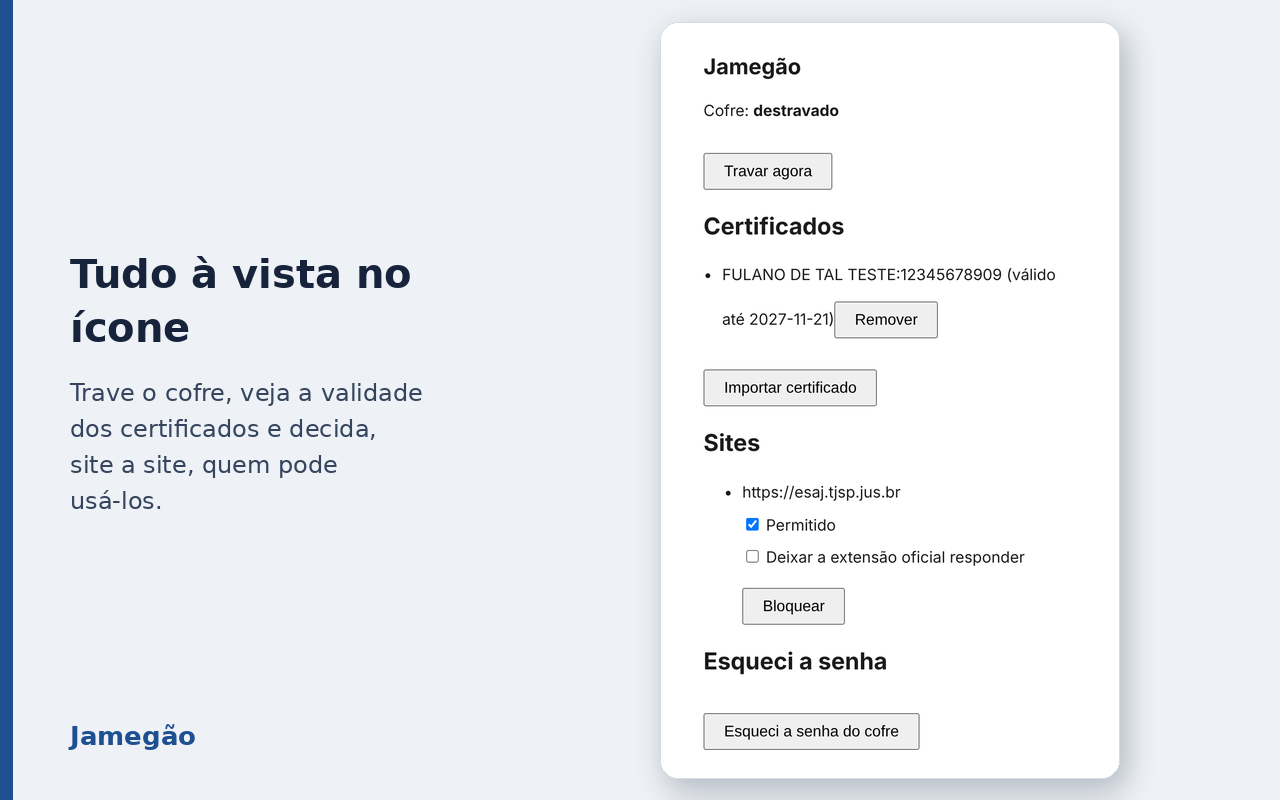
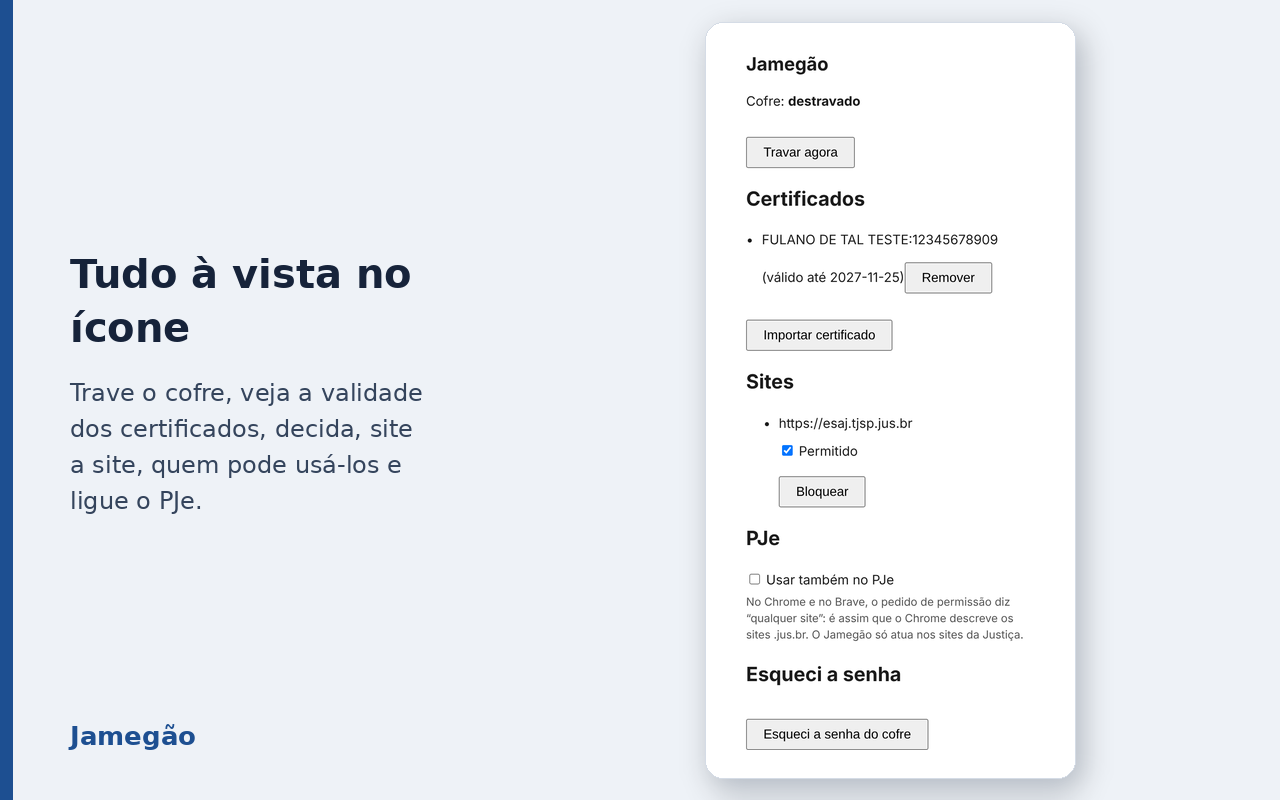
Histórico do projeto, capturas da 0.3.0 e README revisto
- docs/HISTORICO.md: do protótipo à 0.3.0, item a item, com sintoma, causa
  e correção, no modelo do histórico do Tessera; o teste de textos confere
  que não cita marcas.
- Capturas: popup com o PJe (e variante sem a nota do Chrome para a
  Mozilla), certificado fictício com cadeia; imagem promocional com o PJe e
  script para refazê-la.
- README: atualização pelo .xpi, passo da permissão no Firefox, "A fazer"
  e link para o histórico.
- Pendências: 0.3.0 enviada às duas lojas.

Claude-Session: https://claude.ai/code/session_015QXnrw8JCbopUnnSNbAqps

Changed region(s): [[0.5312, 0.0312, 0.9062, 1.0], [0.0625, 0.5312, 0.3125, 0.6562]]

diff --git a/test/unit/textos.test.js b/test/unit/textos.test.js
@@ -37,7 +37,7 @@ function semComentarios(js) {
 }
 
 test('nenhum texto voltado ao usuário cita as marcas', () => {
-  const arquivos = ['ext/manifest.json', 'docs/lojas/descricao.md', 'docs/lojas/ficha-mozilla.md', 'docs/lojas/notas-0.3.0.md', 'docs/lojas/roteiro-de-envio.md', 'PRIVACIDADE.md', 'README.md'];
+  const arquivos = ['ext/manifest.json', 'docs/lojas/descricao.md', 'docs/lojas/ficha-mozilla.md', 'docs/lojas/notas-0.3.0.md', 'docs/lojas/roteiro-de-envio.md', 'PRIVACIDADE.md', 'README.md', 'docs/HISTORICO.md'];
   const textos = new Map(arquivos.map((f) => [f, ler(f)]));
   for (const p of listar(ext)) {
     const r = rel(p);

diff --git a/scripts/compor-capturas.py b/scripts/compor-capturas.py
@@ -14,7 +14,9 @@ ITENS = [
     ('2-site.png', 'cru-site.png', 'Só os sites que você autoriza',
      'Na primeira vez, o e-SAJ precisa da sua permissão para ver os certificados importados.'),
     ('3-popup.png', 'cru-popup.png', 'Tudo à vista no ícone',
-     'Trave o cofre, veja a validade dos certificados e decida, site a site, quem pode usá-los.'),
+     'Trave o cofre, veja a validade dos certificados, decida, site a site, quem pode usá-los e ligue o PJe.'),
+    ('3-popup-firefox.png', 'cru-popup-firefox.png', 'Tudo à vista no ícone',
+     'Trave o cofre, veja a validade dos certificados, decida, site a site, quem pode usá-los e ligue o PJe.'),
     ('4-importar.png', 'cru-importar.png', 'Importe o PFX uma vez',
      'A chave fica cifrada no navegador, protegida pela senha do cofre. Nada é enviado a servidor algum.'),
 ]

diff --git a/scripts/promocional.py b/scripts/promocional.py
@@ -1,0 +1,16 @@
+# Imagem promocional pequena da Chrome Web Store (440x280).
+# Uso: python3 scripts/promocional.py <saída.png>
+import sys, textwrap
+from PIL import Image, ImageDraw, ImageFont
+
+F = '/usr/share/fonts/truetype/dejavu/DejaVuSans'
+im = Image.new('RGB', (440, 280), (29, 79, 145))
+icone = Image.open('ext/icons/icon-128.png').convert('RGBA').resize((96, 96), Image.LANCZOS)
+im.paste(icone, (36, 92), icone)
+d = ImageDraw.Draw(im)
+d.text((152, 98), 'Jamegão', font=ImageFont.truetype(F + '-Bold.ttf', 38), fill='white')
+texto_f = ImageFont.truetype(F + '.ttf', 15)
+y = 150
+for linha in textwrap.wrap('Assinatura no e-SAJ e no PJe com certificado A1, sem instalar programa.', 30):
+    d.text((154, y), linha, font=texto_f, fill=(214, 226, 243)); y += 22
+im.save(sys.argv[1])

diff --git a/docs/HISTORICO.md b/docs/HISTORICO.md
@@ -1,0 +1,275 @@
+# Histórico
+
+Este documento conta como o Jamegão chegou à forma atual, do protótipo, em novembro de 2026, à versão 0.3.0. Os testes reais foram feitos por Pedro, com certificado A1 de verdade:
+
+- no Firefox e no Brave, no Bluefin e no CachyOS;
+- no Firefox do OpenBSD;
+- no Firefox do Android, pelo Waydroid.
+
+O texto segue as versões em ordem. Os itens têm numeração corrida de ponta a ponta, para que se possa citar um deles pelo número. Cada problema traz o sintoma, a causa e a correção. Cada decisão traz o motivo.
+
+As mudanças de cada versão, em detalhe, estão no histórico do git e em [Pendências](PENDENCIAS.md). As decisões de desenho estão em [`docs/superpowers/specs`](superpowers/specs).
+
+## Antes da 0.1: o protótipo (até 21/11)
+
+1. **A pergunta.** O ponto de partida foi saber se as extensões oficiais de assinatura do e-SAJ podiam ser trocadas por uma extensão pura, sem programa nativo, para Chromium e Firefox. Essas extensões dependem de um componente nativo instalado à parte, que não existe para todos os sistemas: não há versão para Mac com processador Apple, por exemplo. O alcance ficou restrito:
+   - ao e-SAJ, porque os demais sistemas aceitavam o certificado direto no navegador (o PJe entrou depois, na 0.3.0);
+   - ao certificado A1, porque o A3 em token ou cartão fica com o projeto irmão, o [Tessera](https://github.com/pedrohqb/tessera).
+2. **A leitura do e-SAJ.** Pedro abriu no Chrome a tela de peticionamento do e-SAJ, e o código que o e-SAJ entrega à página foi lido ali. Ele mostrou cinco coisas:
+   - **Detecção:** a página considera a extensão instalada quando existe um elemento cujo `id` é o identificador da extensão oficial.
+   - **Pedidos:** saem por evento no `document` (Chromium) ou por `postMessage` (Firefox).
+   - **Respostas:** voltam no formato `{requestId, success, response | exception}`.
+   - **Duas famílias de SDK:** o login usa uma; no peticionamento pelo Firefox, conforme a configuração do tribunal, pode entrar a outra. A extensão precisa atender as duas.
+   - **Comandos usados:** `listCertificates`, `readCertificate`, `preauthorizeSignatures`, `signHash` e `signData`, mais os de inicialização.
+3. **O limite das plataformas.** Uma extensão não enxerga os certificados guardados no navegador nem no sistema; a API que faria isso só existe no ChromeOS. Pedro queria a extensão sem configuração, de preferência usando os certificados que o navegador já reconhece, mas isso não é possível. Por isso o PFX é importado para dentro da extensão.
+4. **Segurança da chave importada.** Pedro levantou a dúvida de a importação ser menos segura. A resposta foram três medidas:
+   - o cofre com senha;
+   - a confirmação antes de cada assinatura;
+   - a extensão sem nenhuma conexão de rede própria.
+5. **O protótipo descartável.** O protótipo passou em 94 verificações automáticas no Chrome. Pedro o usou com sucesso no e-SAJ do TJSP e do TJAL, no Chromium e no Firefox. O SDK da página exige uma versão mínima da extensão e do componente nativo, e o protótipo passou a declarar uma versão alta o bastante.
+
+## O desenho e o nome (21/11)
+
+6. **Três caminhos foram considerados:**
+   - **JavaScript puro, sem etapa de build (escolhido):** o que está no repositório é o que vai para a loja, arquivo por arquivo, o que torna a auditoria trivial e é a principal defesa contra uma atualização maliciosa.
+   - **TypeScript com empacotador (descartado):** o pacote deixaria de ser o fonte, a revisão da Mozilla passaria a exigir o envio do código-fonte, e as bibliotecas modernas não leem PFX legado.
+   - **Núcleo em Rust/WebAssembly (descartado):** poria um binário no pacote, por um ganho acima do teto de segurança de um A1.
+7. **Decisões de Pedro no desenho:**
+   - cofre com senha, que trava depois de 30 minutos sem uso;
+   - confirmação a cada lote e a cada login;
+   - só os e-SAJ conhecidos;
+   - nenhuma comunicação de rede própria.
+
+   Outras restrições:
+   - a única biblioteca de terceiros é a node-forge, usada só na importação, porque o WebCrypto não decifra os PKCS#12 legados (3DES e RC2-40);
+   - a chave precisa existir em JavaScript durante o `signHash`, porque o WebCrypto não assina um resumo já calculado.
+8. **O nome.**
+   - O primeiro nome foi Manu Propria; "Assinador PFX" era provisório.
+   - Pedro quis algo melhor e escolheu **Jamegão**, "informal, mas bem específico": é como se diz, na fala popular, a assinatura de alguém.
+   - A busca exata no INPI não deu resultado, e não havia homônimo nas lojas.
+   - O repositório `pedrohqb/jamegao` é público desde o início, sob GPL-3.0; a ideia anterior de mantê-lo privado até a resposta das lojas foi abandonada.
+   - O primeiro envio seria não listado, para ver como as lojas tratariam o uso dos identificadores das extensões oficiais. Nenhuma loja questionou.
+
+## 0.1.0 (21 e 22/11)
+
+9. **A implementação.** O plano da v0.1 foi executado em tarefas paralelas, com revisão a cada etapa. As tarefas foram:
+   - a ponte entre a página e a extensão;
+   - a assinatura RSA;
+   - o cofre;
+   - os sites e créditos de assinatura;
+   - a leitura do PFX e dos certificados;
+   - a decisão dos comandos;
+   - a importação;
+   - a confirmação;
+   - o travamento e o bloqueio de rede;
+   - o popup e a convivência com as oficiais;
+   - o teste no Firefox;
+   - o pacote e os textos.
+10. **O que as revisões por etapa pegaram:**
+    - destravar e criar o cofre ao mesmo tempo podiam se atropelar, e as duas operações passaram a correr em fila;
+    - o órgão emissor e a UF do RG, que o certificado ICP-Brasil guarda juntos num campo, eram separados errado;
+    - créditos e sites podiam se atropelar em gravações simultâneas;
+    - o crédito de assinatura passou a ser consumido de forma atômica;
+    - os erros internos passaram a ir opacos à página;
+    - a importação passou a limpar as senhas da memória mesmo quando falha.
+11. **As nove pendências da revisão final** (21/11, noite):
+    - **"Travar agora" mantinha os créditos de assinatura.** Agora os apaga, e o cofre travado sempre mostra de novo o que será assinado.
+    - **Manifesto:** ficou com os e-SAJ ainda em uso: TJSP, TJAL, TJMS, TJAC, TJCE (plantão) e TJBA. TJSC e TJAM tinham migrado de sistema e ficaram fora.
+    - **Confirmação vencida:** não pode mais ser aprovada nem exibida.
+    - **Dados do cofre em `storage.local`:** o sal, a conferência do cofre, o contador de tentativas e as decisões por site estavam num lugar que os scripts de conteúdo alcançam, e foram para o IndexedDB da extensão.
+    - **Bloqueio:** a janela ganhou o botão "Bloquear este site". Depois de uma recusa, o site fica 15 segundos sem poder abrir outra janela.
+    - **Aceite que falha no meio:** avisa a aba na hora, em vez de deixá-la esperando 120 segundos.
+    - **Teste de convivência intermitente:** havia uma corrida real. Quando o site passava a preferir a oficial no meio de um pedido, o Jamegão respondia com recusa; agora fica calado.
+    - As outras duas foram de texto e de teste.
+12. **A janela reabria sozinha no Brave.**
+    - *Sintoma:* sem resposta em 120 segundos, a janela de confirmação do login fechava e abria de novo.
+    - *Causa:* quando a listagem de certificados falha, a tela de login do e-SAJ a repete na hora, até três vezes.
+    - *Correção:* o prazo vencido passou a contar como recusa e pausa o site por 15 segundos, como a recusa.
+13. **A revisão independente** (22/11, de madrugada) aprovou o trabalho com ressalvas, sem achado crítico. Os sete achados menores foram corrigidos:
+    - um aceite que falha não deixa crédito sobrando;
+    - toda janela antes de assinar mostra a quantidade de documentos;
+    - a falha ao gravar um bloqueio é avisada;
+    - as conexões do IndexedDB cedem quando outra versão da extensão pede;
+    - a janela avisa quando o pedido expirou;
+    - os demais foram de texto.
+14. **Primeiro uso real:**
+    - login no e-SAJ do TJSP no Brave e no Firefox, com a extensão carregada à mão, sem extensão oficial e sem componente nativo;
+    - em 22/11, login também no Firefox do OpenBSD, num ThinkPad X230.
+15. **As lojas** (22/11):
+    - **Chrome Web Store:** a 0.1.0 foi publicada cerca de três horas depois do envio.
+    - **Mozilla:** aprovou e assinou a versão não listada no mesmo dia. O identificador definitivo é `jamegao@pedrohqb.github.io`, e o `.xpi` assinado é idêntico ao zip enviado.
+    - **Validação da Mozilla:** apontou quatro alertas sem efeito.
+      - Dois sumiriam com versões mínimas mais altas (Firefox 140 e Android 142), porque a declaração de coleta de dados só existe a partir delas.
+      - Os outros dois são esperados: o `background.service_worker`, que o Firefox ignora (ele usa `background.scripts`, e o manifesto é um só), e o construtor `Function` dentro da node-forge.
+16. **O README** foi refeito em tom didático, no modelo do Tessera.
+
+## 0.1.1 (23 e 24/11): a extensão oficial na página
+
+17. **A primeira petição.** Em 23/11, Pedro assinou e protocolou uma petição real com a 0.1.0, no e-SAJ do TJSP, pelo Firefox, no Bluefin.
+18. **CERT-99 com as oficiais ativas.**
+    - *Sintoma:* com as extensões oficiais ativas no mesmo navegador, o login no e-SAJ falhava com CERT-99, nos dois navegadores.
+    - *Causa:* a página fica com a primeira resposta que chega, e a oficial responde na hora "certificado não encontrado" para o A1 do Jamegão.
+    - *Desenho anterior:* o Jamegão respondia mesmo com a oficial presente, com um interruptor por site.
+    - *Decisão de Pedro:* "não vejo sentido ter o Jamegão para quem já tem o oficial".
+    - *Correção:* o Jamegão percebe a oficial pelo elemento de detecção dela ou por uma resposta que não é sua. Então retira os próprios elementos, abandona a confirmação pendente e não responde mais nada naquela página. O interruptor saiu, e o ícone avisa em que sites o Jamegão se desligou.
+    - Pedro segurou a 0.1.1 até o primeiro protocolo e a testou em 24/11, com e sem as oficiais, no Brave e no Firefox.
+19. **Atualização automática fora da loja.**
+    - A versão não listada da Mozilla não se atualiza pela loja. A 0.1.1 ganhou um `update_url` que aponta para o `updates.json` na raiz do repositório, e ele aponta para o `.xpi` de cada release.
+    - As versões mínimas subiram para Firefox 140 e Android 142, o que calou os dois alertas evitáveis.
+20. **Textos públicos sem marcas.** README, textos das lojas e textos da extensão deixaram de citar os nomes das extensões oficiais e dos seus fornecedores. Um teste de unidade confere isso; os identificadores técnicos que o protocolo exige ficam só no código.
+
+## 0.1.2 (24/11): listada na Mozilla, nunca analisada
+
+21. **A tentativa de listar.**
+    - *Objetivo:* Pedro considerou o Jamegão praticamente pronto e quis deixá-lo público também na Mozilla. A 0.1.2 era a 0.1.1 sem o `update_url`, porque uma versão listada é atualizada pela própria loja.
+    - *O que aconteceu:* a Mozilla a desativou antes de analisar, quando a 0.2.0 entrou na fila.
+    - *Consequência:* a 0.1.2 saiu do `updates.json`.
+
+## 0.2.0 (24/11): Firefox do Android
+
+22. **Sem janelas, uma aba.**
+    - *Problema:* o Firefox do Android não tem `api.windows`.
+    - *Solução:* lá, a confirmação abre numa aba. Ela fecha sozinha depois da resposta e devolve o foco à aba do e-SAJ. Fechar a aba de confirmação vale como recusar, e fechar a aba do e-SAJ fecha a confirmação junto.
+    - As páginas ganharam `viewport` de celular. No computador, nada muda.
+23. **Teste no Waydroid.**
+    - Pedro não tem aparelho Android e testou no Waydroid, no CachyOS: importação do PFX, login no TJSP com a confirmação em aba e recusa fechando a aba.
+    - Na recusa, o e-SAJ mostra o mesmo CERT-99 genérico que mostra ao clicar em Recusar no computador.
+24. **Publicação.**
+    - A 0.2.0 foi enviada às duas lojas. Na Mozilla, como versão listada, foi para a fila de revisão manual, que pode levar de dias a semanas.
+    - A release `v0.2.0` no GitHub saiu só com o zip para Chromium, sem `.xpi`.
+    - As branches antigas foram apagadas do repositório.
+
+## 0.3.0 (24 e 25/11): PJe
+
+### A spike (24/11)
+
+25. **A ideia.**
+    - *Antes:* Pedro tinha descartado o PJe, porque o programa assinador do PJe, em Java, já roda em todo computador.
+    - *Depois:* reconsiderou e quis o PJe no Jamegão, desde que dentro da regra de não fazer rede. Começou pelo TJMA, num perfil de teste do Brave.
+26. **O protocolo do programa assinador.**
+    - *Chamada:* a página não fala com extensão nenhuma. Ela cria uma imagem cujo endereço aponta para o programa local, em `http://localhost:8800/...`. O pedido vai no endereço, em JSON: servidor, sessão, tarefa.
+    - *Resposta:* sai das dimensões da imagem: 1×1 é sucesso, 2×1 é erro, e uma falha de carga quer dizer que o programa não está rodando.
+    - *Envio ao tribunal:* quem manda o resultado ao servidor do PJe é o próprio programa.
+    - *Tarefas vistas:*
+      - `sso.autenticador`, o login: assina uma mensagem e faz um POST JSON;
+      - `cnj.assinadorHash`, a assinatura de documentos: assina com MD5withRSA um resumo MD5 já calculado e faz um POST de formulário por documento.
+    - *Caminho escolhido:* interceptar essas imagens no mundo da página, assinar na extensão e deixar que **a própria página** envie o resultado ao seu servidor, com a sessão dela. Assim a extensão continua sem rede.
+    - *Descartados:*
+      - redirecionar o `localhost` para dentro da extensão pelas regras de rede do navegador, porque quem enviaria ao PJe seria a extensão;
+      - um servidor local, porque seria instalar programa.
+27. **Login na primeira tentativa.** O login no SSO do PJe do TJMA funcionou de primeira, com A1 real.
+28. **A interceptação parou.**
+    - *Sintoma:* o console mostrava `ERR_CONNECTION_REFUSED` para o `localhost:8800`, e a página reclamava do assinador.
+    - *Causa:* a extensão tinha sido recarregada, mas a página aberta continuava sem o script, porque um script só entra nas páginas carregadas depois.
+    - *Correção:* recarregar a extensão e depois a página. Isso virou instrução nos textos: depois de ligar o PJe, recarregue as páginas abertas.
+29. **"Resumos do PJe inválidos".**
+    - *Sintoma:* na assinatura de documentos, a lista de resumos chegava como texto, e o console dizia "Lista de resumos do PJe inválida (string)".
+    - *Causa:* o PJe carrega o Prototype.js, que acrescenta `Array.prototype.toJSON` e faz o `JSON.stringify` da página transformar listas em texto.
+    - *Correção:* uma conversão própria, que não passa pelo `toJSON`, e o fundo passou a aceitar a lista também em texto.
+30. **Assinatura de documentos.**
+    - Os dois documentos de um cadastro foram assinados, e o servidor respondeu "Sucesso" a cada um.
+    - A cadeia do certificado foi aceita na ordem em que o Java a monta, a autoridade mais alta primeiro, na primeira tentativa.
+    - O WebCrypto não tem MD5: o MD5 é calculado em JavaScript, e a assinatura do resumo usa o caminho do `signHash`.
+    - Assinar não protocola. Pedro estranhou "assinar sem protocolar", mas o protocolo é o passo seguinte, na própria página do PJe.
+
+### O desenho da versão pública (24/11)
+
+31. **Modularidade, a pedido de Pedro.** Pedro pediu que outros sistemas de assinatura pudessem entrar depois sem refazer o que existe. O código foi separado em núcleo e protocolos:
+    - **Núcleo** (`ext/lib`):
+      - uma porta única para usar a chave (`assinar.js`), em que a chave sai sempre do armazém de certificados, nunca de quem chama;
+      - o despacho por protocolo;
+      - uma ponte comum aos scripts de conteúdo.
+    - **Protocolos** (`ext/protocolos/esaj` e `ext/protocolos/pje`): um módulo por sistema. O e-SAJ virou o primeiro protocolo, sem mudar de comportamento.
+32. **PJe desligado por padrão.**
+    - *Por que opcional:* uma permissão obrigatória nova sobre `*.jus.br` desativaria a extensão no Chrome, na atualização, para todo mundo, inclusive para quem só usa o e-SAJ. Por isso ela é opcional e só é pedida quando o usuário marca "Usar também no PJe".
+    - *Por que `*.jus.br`:* o PJe está em dezenas de endereços sob `.jus.br`, sem padrão de nome.
+    - *A única permissão obrigatória nova:* `scripting`, que não gera aviso.
+    - *O registro dos scripts:* com a permissão, o fundo registra, em tempo de execução, um script no mundo da página e outro no mundo isolado, nos sites `*.jus.br`, exceto os do e-SAJ.
+    - Um teste de viabilidade provou esse registro antes de o resto ser construído.
+33. **A cadeia do certificado.**
+    - O PJe exige a cadeia completa, que o Jamegão não guardava.
+    - A importação passou a guardá-la, e os certificados importados antes aparecem no ícone com "Importe de novo para usar no PJe.". No PJe, só contam certificados com cadeia.
+    - Um PFX sem as autoridades certificadoras gera um aviso no ícone para pedir à certificadora o arquivo com a cadeia completa.
+34. **Convivência com o programa instalado.**
+    - A janela oferece "Usar o programa instalado", que vale só para aquele pedido, e "Bloquear este site", que passa o site ao programa de vez, a partir do próximo pedido.
+    - Sem certificado importado, o pedido segue para o programa.
+    - Uma tarefa que o Jamegão não faz também segue para o programa e aparece no ícone, para ser relatada.
+    - Com mais de um certificado, a janela mostra a lista, com o último usado naquele site já marcado.
+
+### O que a implementação e as revisões pegaram (24/11)
+
+35. **O crédito do login servia aos documentos.** Uma confirmação de login deixava um crédito que podia ser gasto numa assinatura de documentos. O crédito passou a ser vinculado ao motivo: `login` ou `documentos`.
+36. **A primeira ativação se perdia.**
+    - *Sintoma:* ao marcar a caixa, o pedido de permissão do navegador às vezes fechava o popup, que era quem ia registrar os scripts. A permissão era concedida, e o PJe não ligava.
+    - *Correção:* o fundo passou a escutar `permissions.onAdded` e `onRemoved`. Conceder `*.jus.br`, pelo popup ou nas configurações do navegador, liga o PJe; retirar desliga.
+37. **O PJe se religava sozinho.** Quando o navegador não devolvia a permissão retirada, o PJe voltava a ligar. A escolha do usuário passou a ser guardada à parte (`pjeLigado`), e o fundo só registra os scripts com a escolha e a permissão juntas.
+38. **Três defeitos no script da página:**
+    - aceitava pedido sem destino;
+    - se o mundo isolado não respondesse, a página ficava esperando;
+    - o envio seguia redirecionamentos.
+
+    *Correções:*
+    - o destino precisa existir e ser da mesma origem da página;
+    - o envio usa `redirect: 'manual'`;
+    - o mundo isolado confirma na hora que vai atender; sem essa confirmação, a chamada segue intacta para o `localhost`.
+39. **Console calado demais.** Todas as falhas ficavam fora do console, o que dificultaria o diagnóstico. Agora só a recusa do usuário fica calada; as outras aparecem com a marca `[Jamegão]`.
+40. **A janela não cabia.**
+    - *Sintoma:* o caso mais cheio, com site novo, cofre travado, lista de certificados e "Usar o programa instalado", não cabia em 440×520 no Firefox.
+    - *Correção:* a janela passou a 440×620, e o conteúdo rola quando o nome do titular é longo.
+41. **Os testes de ponta a ponta no Firefox.**
+    - *O problema:* o WebDriver BiDi do Firefox ignora os documentos de extensão (bug 1755014 da Mozilla):
+      - a navegação para `moz-extension://` nunca termina;
+      - o endereço fica em `about:blank`;
+      - o fechamento das janelas da extensão não é avisado.
+    - *Correção:* o harness passou a usar `MOZ_REMOTE_ALLOW_SYSTEM_ACCESS` e recompõe, só no Firefox, o que falta. A suíte roda no Firefox 161.
+    - *Limite que fica:* o clique automático não conta como gesto do usuário, então o pedido de permissão do PJe só se prova no teste manual.
+
+### Publicação (25/11)
+
+42. **A node-forge alterada, e desfeita.**
+    - *O erro:* para calar o aviso do validador sobre o construtor `Function`, a node-forge chegou a ser alterada.
+    - *A regra:* a política da Mozilla proíbe alterar bibliotecas de terceiros, que o revisor reconhece pelo hash.
+    - *Correção:* a alteração foi revertida, e um teste de unidade compara o arquivo, byte a byte, com o da node-forge instalada. O aviso fica, explicado nas notas ao revisor.
+43. **`validarCertificado` no TJDFT.**
+    - *Sintoma:* a primeira tentativa de assinar no PJe do TJDFT, pelo Firefox, foi recusada com `pje.certificadoDigitalService.error.verificaAssinatura.validarCertificado`. A segunda, logo em seguida e sem mudança nenhuma, foi aceita.
+    - *Causa:* o mesmo erro tinha aparecido minutos antes, no mesmo processo, com o programa assinador instalado, assinando outro advogado do escritório. O problema é do servidor do TJDFT, não do Jamegão.
+44. **"Qualquer site" no Chrome e no Brave.**
+    - *Sintoma:* ao ligar o PJe, o Firefox pede acesso aos "sites no domínio jus.br", mas o Chrome e o Brave dizem que o Jamegão poderá "ler e mudar seus dados em qualquer site".
+    - *Causa:* `jus.br` está na Public Suffix List, como `com.br`, e o Chromium descreve um curinga sobre um sufixo público como "todos os sites". O acesso concedido continua só aos sites `*.jus.br`.
+    - *Opções:* trocar o curinga pela lista de dezenas de endereços do PJe, que mudam sem aviso, ou manter `*.jus.br` e explicar. Pedro escolheu explicar ("mais econômico e lógico").
+    - *Correção:* o popup e a importação mostram, só nos navegadores Chromium, uma nota que explica o pedido. README, descrição da loja e justificativa da permissão também explicam.
+    - Na primeira tentativa, a nota não aparecia no Chrome. O Chrome também expõe o objeto `browser`, então a detecção passou a ser pela ausência de `runtime.getBrowserInfo`, que só o Firefox tem.
+45. **Os testes manuais da 0.3.0**, por Pedro, com A1 real:
+    - login e assinatura de documentos no PJe do TJMA (1º grau), no Brave, e do TJDFT, no Firefox;
+    - login no TRT da 1ª Região (Brave), no TRT da 2ª Região (Firefox) e no TRF da 3ª Região (Brave);
+    - "Usar o programa instalado" nos dois navegadores;
+    - e-SAJ do TJSP sem mudança, nos dois navegadores.
+46. **As imagens das lojas.**
+    - *O que estava velho:*
+      - a captura do popup ainda mostrava o interruptor da convivência, removido na 0.1.1 (item 18), e não tinha a seção do PJe;
+      - a imagem promocional falava só em e-SAJ.
+    - *Novas imagens:* as duas foram refeitas. A imagem promocional passou a ter script (`scripts/promocional.py`).
+    - *Certificado fictício:* as capturas passaram a usar um certificado fictício com a cadeia completa, porque o certificado de teste antigo, sem cadeia, fazia o popup mostrar o aviso de cadeia ausente.
+    - *Variante Firefox:* a ficha da Mozilla usa uma variante da captura do popup sem a nota do Chrome (`3-popup-firefox.png`).
+47. **O envio.**
+    - A 0.3.0 foi enviada à Chrome Web Store com os textos e as imagens atualizados.
+    - Na Mozilla, Pedro cancelou a 0.2.0, que ainda esperava a revisão manual, e enviou a 0.3.0 no lugar. O pacote é o mesmo nas duas lojas.
+    - A release `v0.3.0` no GitHub tem só o zip para Chromium.
+
+## Estado em 25/11
+
+- **Testes automáticos:**
+  - unidade: 292;
+  - ponta a ponta no Chrome: 75, mais 2 pulados;
+  - ponta a ponta no Firefox 161: 73, mais 4 pulados.
+- **`web-ext lint`:** 0 erros e os 2 avisos esperados do item 15.
+- **Lojas:** a 0.3.0 está em análise na Chrome Web Store e na Mozilla.
+- **O `updates.json`** ainda aponta a 0.2.0 para um `.xpi` que a release `v0.2.0` não tem. Ele só serve a quem instalou a 0.1.1 pelo `.xpi`; essas pessoas passam para a loja instalando o Jamegão por lá.
+- **Falta testar:**
+  - a assinatura de petição no Chromium;
+  - o e-SAJ do TJMS, do TJAC, do TJCE e do TJBA;
+  - a assinatura de documentos no PJe dos TRTs, dos TRFs e de outros tribunais estaduais;
+  - o PJe no Firefox do Android.
+- **Para a próxima versão:**
+  - a tela de importação ainda diz que "só o site do e-SAJ" recebe os dados do certificado, e precisa mencionar também o PJe;
+  - as demais tarefas do PJe entram uma a uma, quando aparecerem num tribunal real.

diff --git a/README.md b/README.md
@@ -54,7 +54,7 @@ Se você usar um desses que ainda não foram testados, conte como foi numa [issu
 1. Abra a página do Jamegão em **[Firefox Add-ons](https://addons.mozilla.org/firefox/addon/jamegao/)** e clique em **Adicionar ao Firefox**. A extensão se atualiza sozinha.
 2. Em `about:addons` → Jamegão → **Permissões**, confira se o acesso aos sites do e-SAJ está ligado. O Firefox às vezes deixa desligado.
 
-Quem instalou uma versão anterior pelo arquivo `.xpi` da [página de versões](https://github.com/pedrohqb/jamegao/releases) não precisa fazer nada: o Firefox passa para a versão da loja sozinho, e o cofre e os certificados continuam. O arquivo `.xpi` continua disponível lá, para quem preferir instalar à mão (arrastando-o para o Firefox).
+Quem instalou uma das primeiras versões pelo arquivo `.xpi` da [página de versões](https://github.com/pedrohqb/jamegao/releases) não precisa fazer nada: o Firefox passa para a versão da loja sozinho, e o cofre e os certificados continuam. Desde a 0.2.0, a página de versões só traz o pacote para os navegadores Chromium; no Firefox, a instalação é pela loja.
 
 #### Android
 
@@ -193,7 +193,7 @@ Detalhes na [política de privacidade](PRIVACIDADE.md).
 
 ### Perguntas frequentes
 
-**O e-SAJ diz que o componente de assinatura não está instalado.** Confira se há algum certificado importado (o Jamegão só se apresenta ao e-SAJ quando há). No Firefox, confira também a permissão de acesso aos sites (passo 3 da instalação). Depois, recarregue a página.
+**O e-SAJ diz que o componente de assinatura não está instalado.** Confira se há algum certificado importado (o Jamegão só se apresenta ao e-SAJ quando há). No Firefox, confira também a permissão de acesso aos sites (passo 2 da instalação no Firefox). Depois, recarregue a página.
 
 **Com a extensão oficial ativa, nada acontece ou dá erro.** É de propósito: com a oficial presente, o Jamegão se desliga. Desative a oficial e recarregue a página.
 
@@ -211,7 +211,8 @@ Detalhes na [política de privacidade](PRIVACIDADE.md).
 
 - **Testar a assinatura de petição no Chromium** (no Firefox, já funcionou no TJSP).
 - **Testar TJMS, TJAC, TJCE e TJBA.**
-- **Testar o PJe no Firefox e em outros tribunais** (Justiça do Trabalho, Justiça Federal e outros estaduais).
+- **Testar a assinatura de documentos no PJe de outros tribunais** (Justiça do Trabalho, Justiça Federal e outros estaduais; o login já foi testado no TRT1, no TRT2 e no TRF3).
+- **Testar o PJe no Firefox do Android.**
 - **Outras operações do PJe**, uma a uma, quando aparecerem num tribunal real.
 
 ---
@@ -234,6 +235,7 @@ Para testar uma alteração sem empacotar: no Chromium, "Carregar sem compactaç
 - [Pendências](docs/PENDENCIAS.md): o que foi testado, o que falta e o que vai para a próxima versão.
 - [Desenho](docs/superpowers/specs/2026-11-21-jamegao-design.md): decisões, protocolo e segurança; o do PJe, [à parte](docs/superpowers/specs/2026-11-24-pje-design.md).
 - [Envio às lojas](docs/lojas/roteiro-de-envio.md): textos, capturas e passo a passo.
+- [Histórico](docs/HISTORICO.md): como o Jamegão chegou à forma atual, versão por versão, com cada problema encontrado, a causa e a correção.
 
 ---
 

diff --git a/docs/PENDENCIAS.md b/docs/PENDENCIAS.md
@@ -1,6 +1,6 @@
 # Pendências do Jamegão
 
-## Versão 0.3.0 (ramo `pje`, 24/11/2026): PJe
+## Versão 0.3.0 (24 e 25/11/2026): PJe
 
 Estado em 24/11/2026. Desenho em
 `docs/superpowers/specs/2026-11-24-pje-design.md`; plano em
@@ -72,12 +72,17 @@ usuário); só o teste manual prova.
   (25/11/2026), num cadastro não protocolado.
   O TJMA também foi testado na spike (`pje-spike`, 24/11/2026, Brave). Os textos
   públicos já dizem isso.
-- Enviar às duas lojas: zip `dist/jamegao-0.3.0.zip`, notas da versão e notas
-  ao revisor (`docs/lojas/roteiro-de-envio.md`, seção 5). O aviso da
-  validação da Mozilla de que `background.service_worker` é ignorado pelo
-  Firefox fica (um manifesto só para os dois navegadores) e está explicado
-  nas notas ao revisor.
-- Criar a release `v0.3.0` no GitHub, só com o zip para Chromium.
+- Enviada às duas lojas em 25/11/2026 (zip `dist/jamegao-0.3.0.zip`, notas
+  da versão e notas ao revisor). Na Mozilla, a 0.2.0 que aguardava a revisão
+  manual foi cancelada e a 0.3.0 foi no lugar. Capturas 3 (popup, com
+  variante sem a nota do Chrome para a Mozilla) e imagem promocional
+  refeitas com o PJe.
+- Release `v0.3.0` criada no GitHub, só com o zip para Chromium.
+- Para a próxima versão: o aviso da tela de importação ainda diz "só o site
+  do e-SAJ"; deve citar também o PJe.
+
+O histórico completo, com os problemas e as decisões de cada versão, está em
+`docs/HISTORICO.md`.
 
 ## Histórico (0.1 a 0.2.0)
 

diff --git a/docs/lojas/roteiro-de-envio.md b/docs/lojas/roteiro-de-envio.md
@@ -8,7 +8,7 @@ Textos prontos: nome, resumo e descrição longa em `docs/lojas/descricao.md`; p
 
 1. Rode `npm run empacotar`. O arquivo `dist/jamegao-<versão>.zip` é o mesmo para as duas lojas.
 2. ID do Firefox: `jamegao@pedrohqb.github.io` (confirmado por Pedro em 22/11/2026). Fica permanente a partir do primeiro envio ao addons.mozilla.org; não troque.
-3. Ícones: `ext/icons/` (fonte em `docs/marca/icone.svg`; o de 128 px é `ext/icons/icon-128.png`). Capturas de tela prontas, 1280x800, com dados fictícios: `docs/lojas/capturas/1-assinatura.png` a `4-importar.png`. Imagem promocional pequena (440x280, Chrome): `docs/lojas/capturas/promocional-440x280.png`. Para refazer: `node scripts/capturas.mjs <pasta>` e `python3 scripts/compor-capturas.py <pasta> docs/lojas/capturas`.
+3. Ícones: `ext/icons/` (fonte em `docs/marca/icone.svg`; o de 128 px é `ext/icons/icon-128.png`). Capturas de tela prontas, 1280x800, com dados fictícios: `docs/lojas/capturas/1-assinatura.png` a `4-importar.png`. Imagem promocional pequena (440x280, Chrome): `docs/lojas/capturas/promocional-440x280.png`. Para refazer: `node scripts/capturas.mjs <pasta>` e `python3 scripts/compor-capturas.py <pasta> docs/lojas/capturas`; a promocional, `python3 scripts/promocional.py docs/lojas/capturas/promocional-440x280.png`.
 
 ## 1. Chrome Web Store
 

diff --git a/docs/lojas/ficha-mozilla.md b/docs/lojas/ficha-mozilla.md
@@ -72,7 +72,7 @@ Guarde sempre a cópia de segurança do seu arquivo PFX. Ao desinstalar a extens
 ## Mídia
 
 - **Ícone:** `ext/icons/icon-128.png`
-- **Capturas de tela:** `capturas/1-assinatura.png` a `capturas/4-importar.png`, nessa ordem
+- **Capturas de tela:** `capturas/1-assinatura.png`, `capturas/2-site.png`, `capturas/3-popup-firefox.png` (sem o aviso do Chrome) e `capturas/4-importar.png`, nessa ordem
 
 ## Notas para os revisores
 
